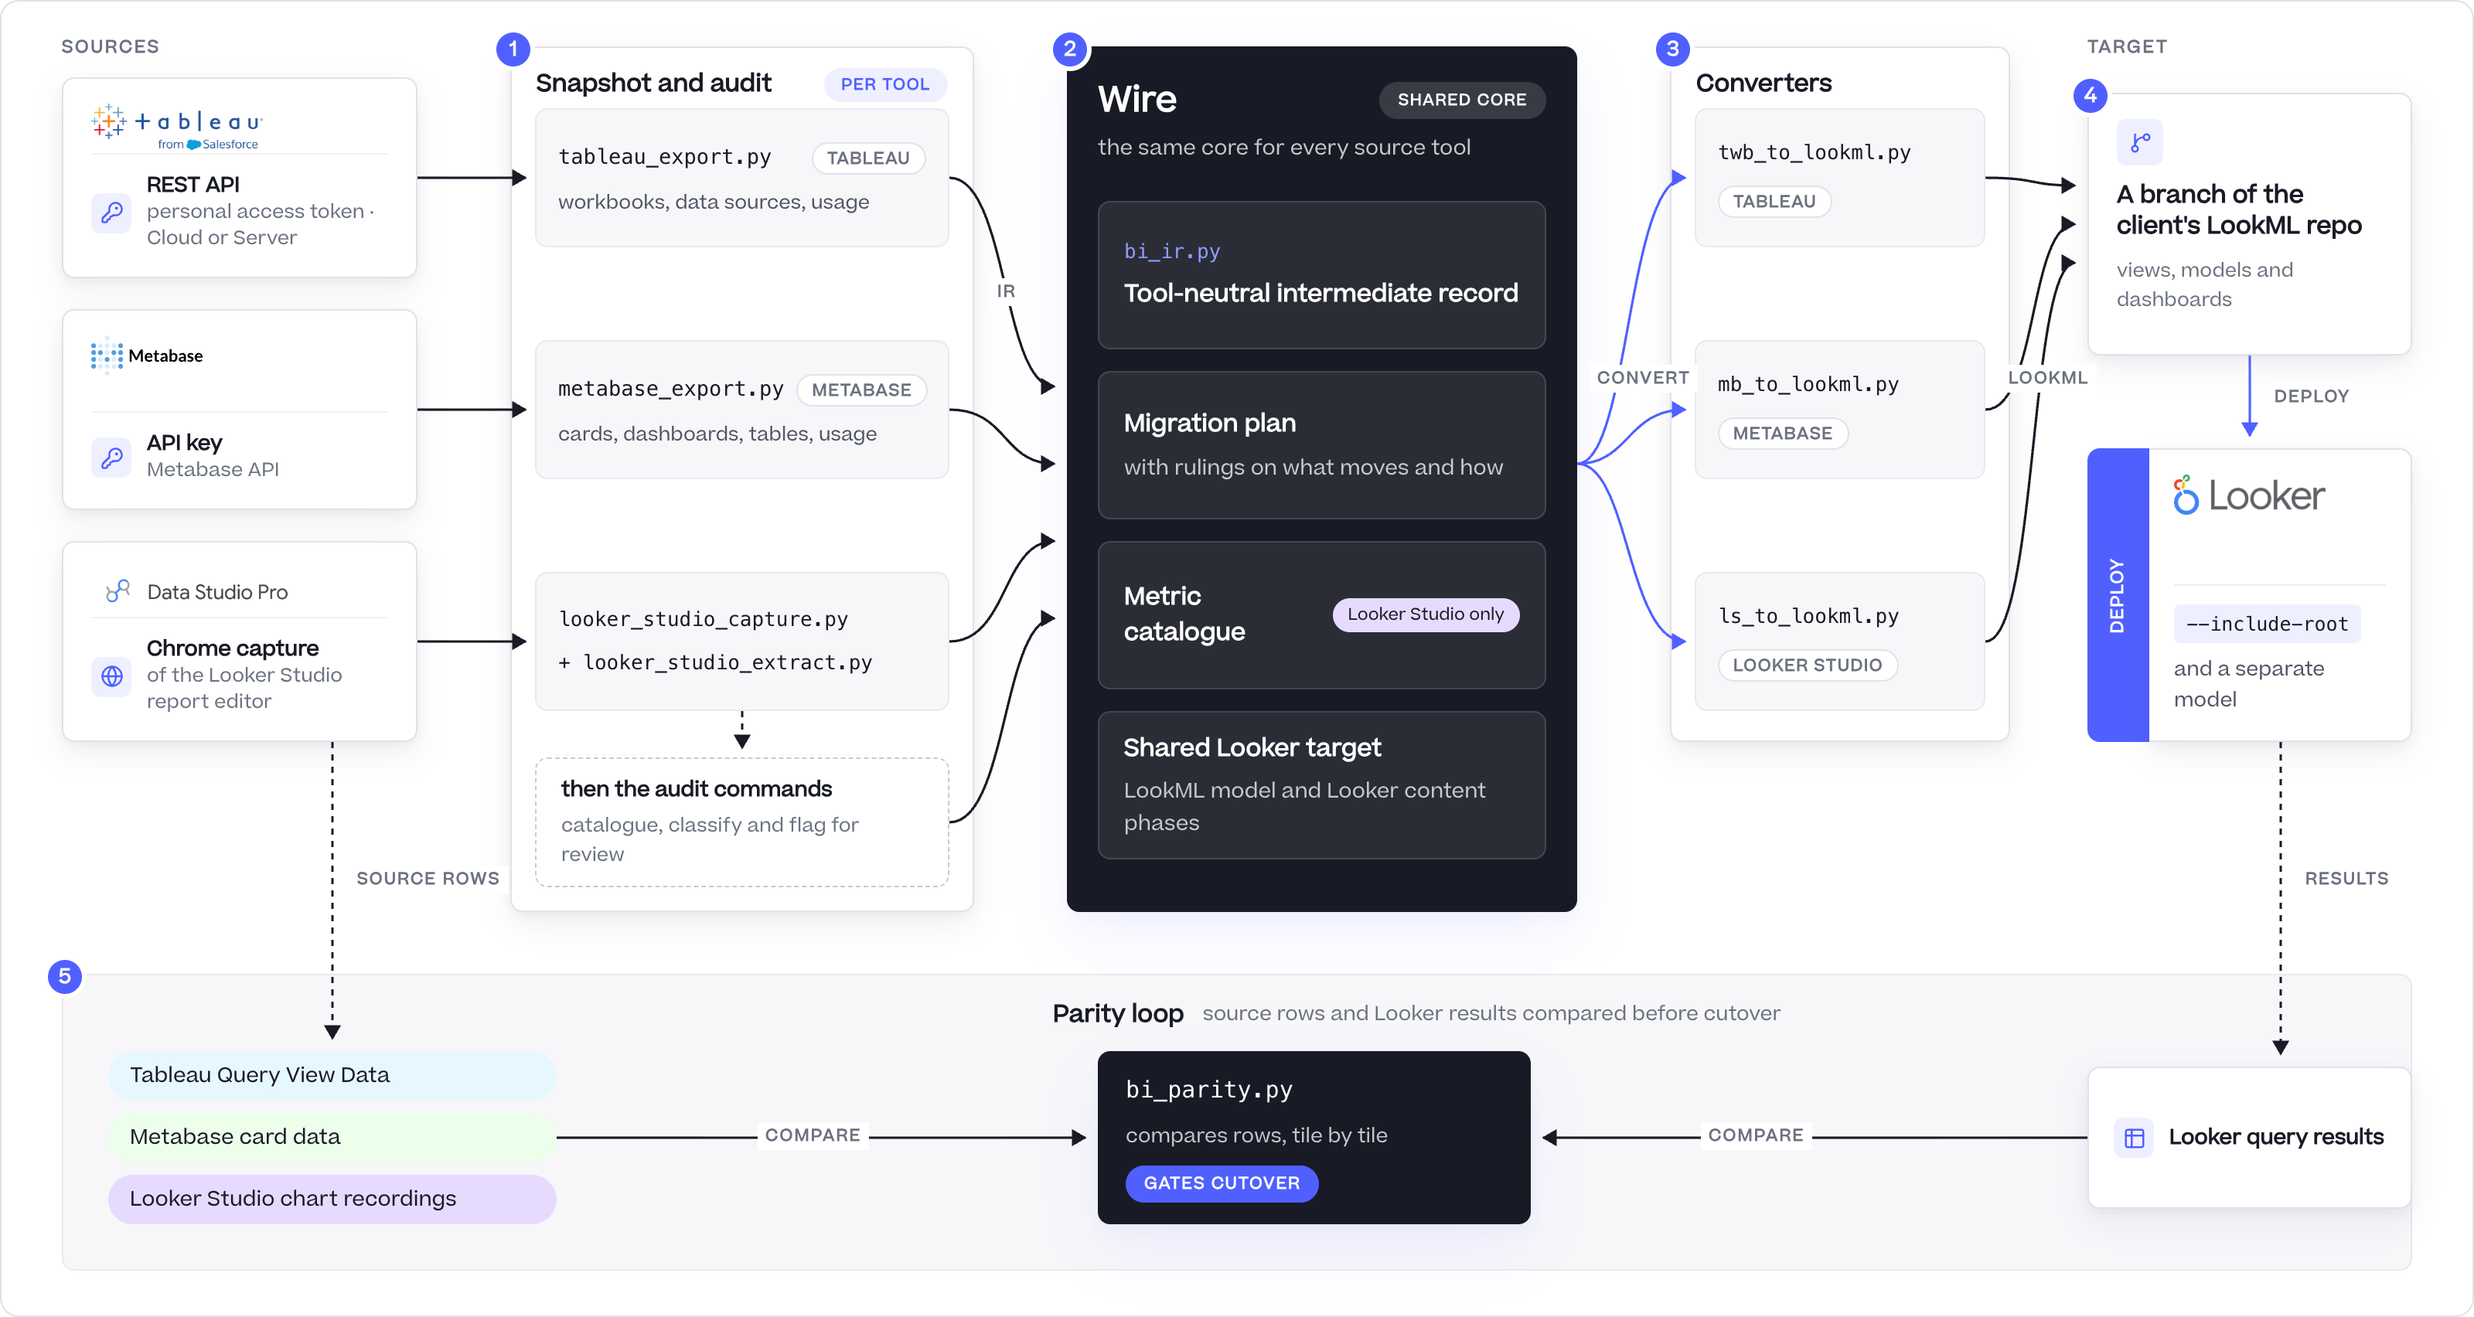
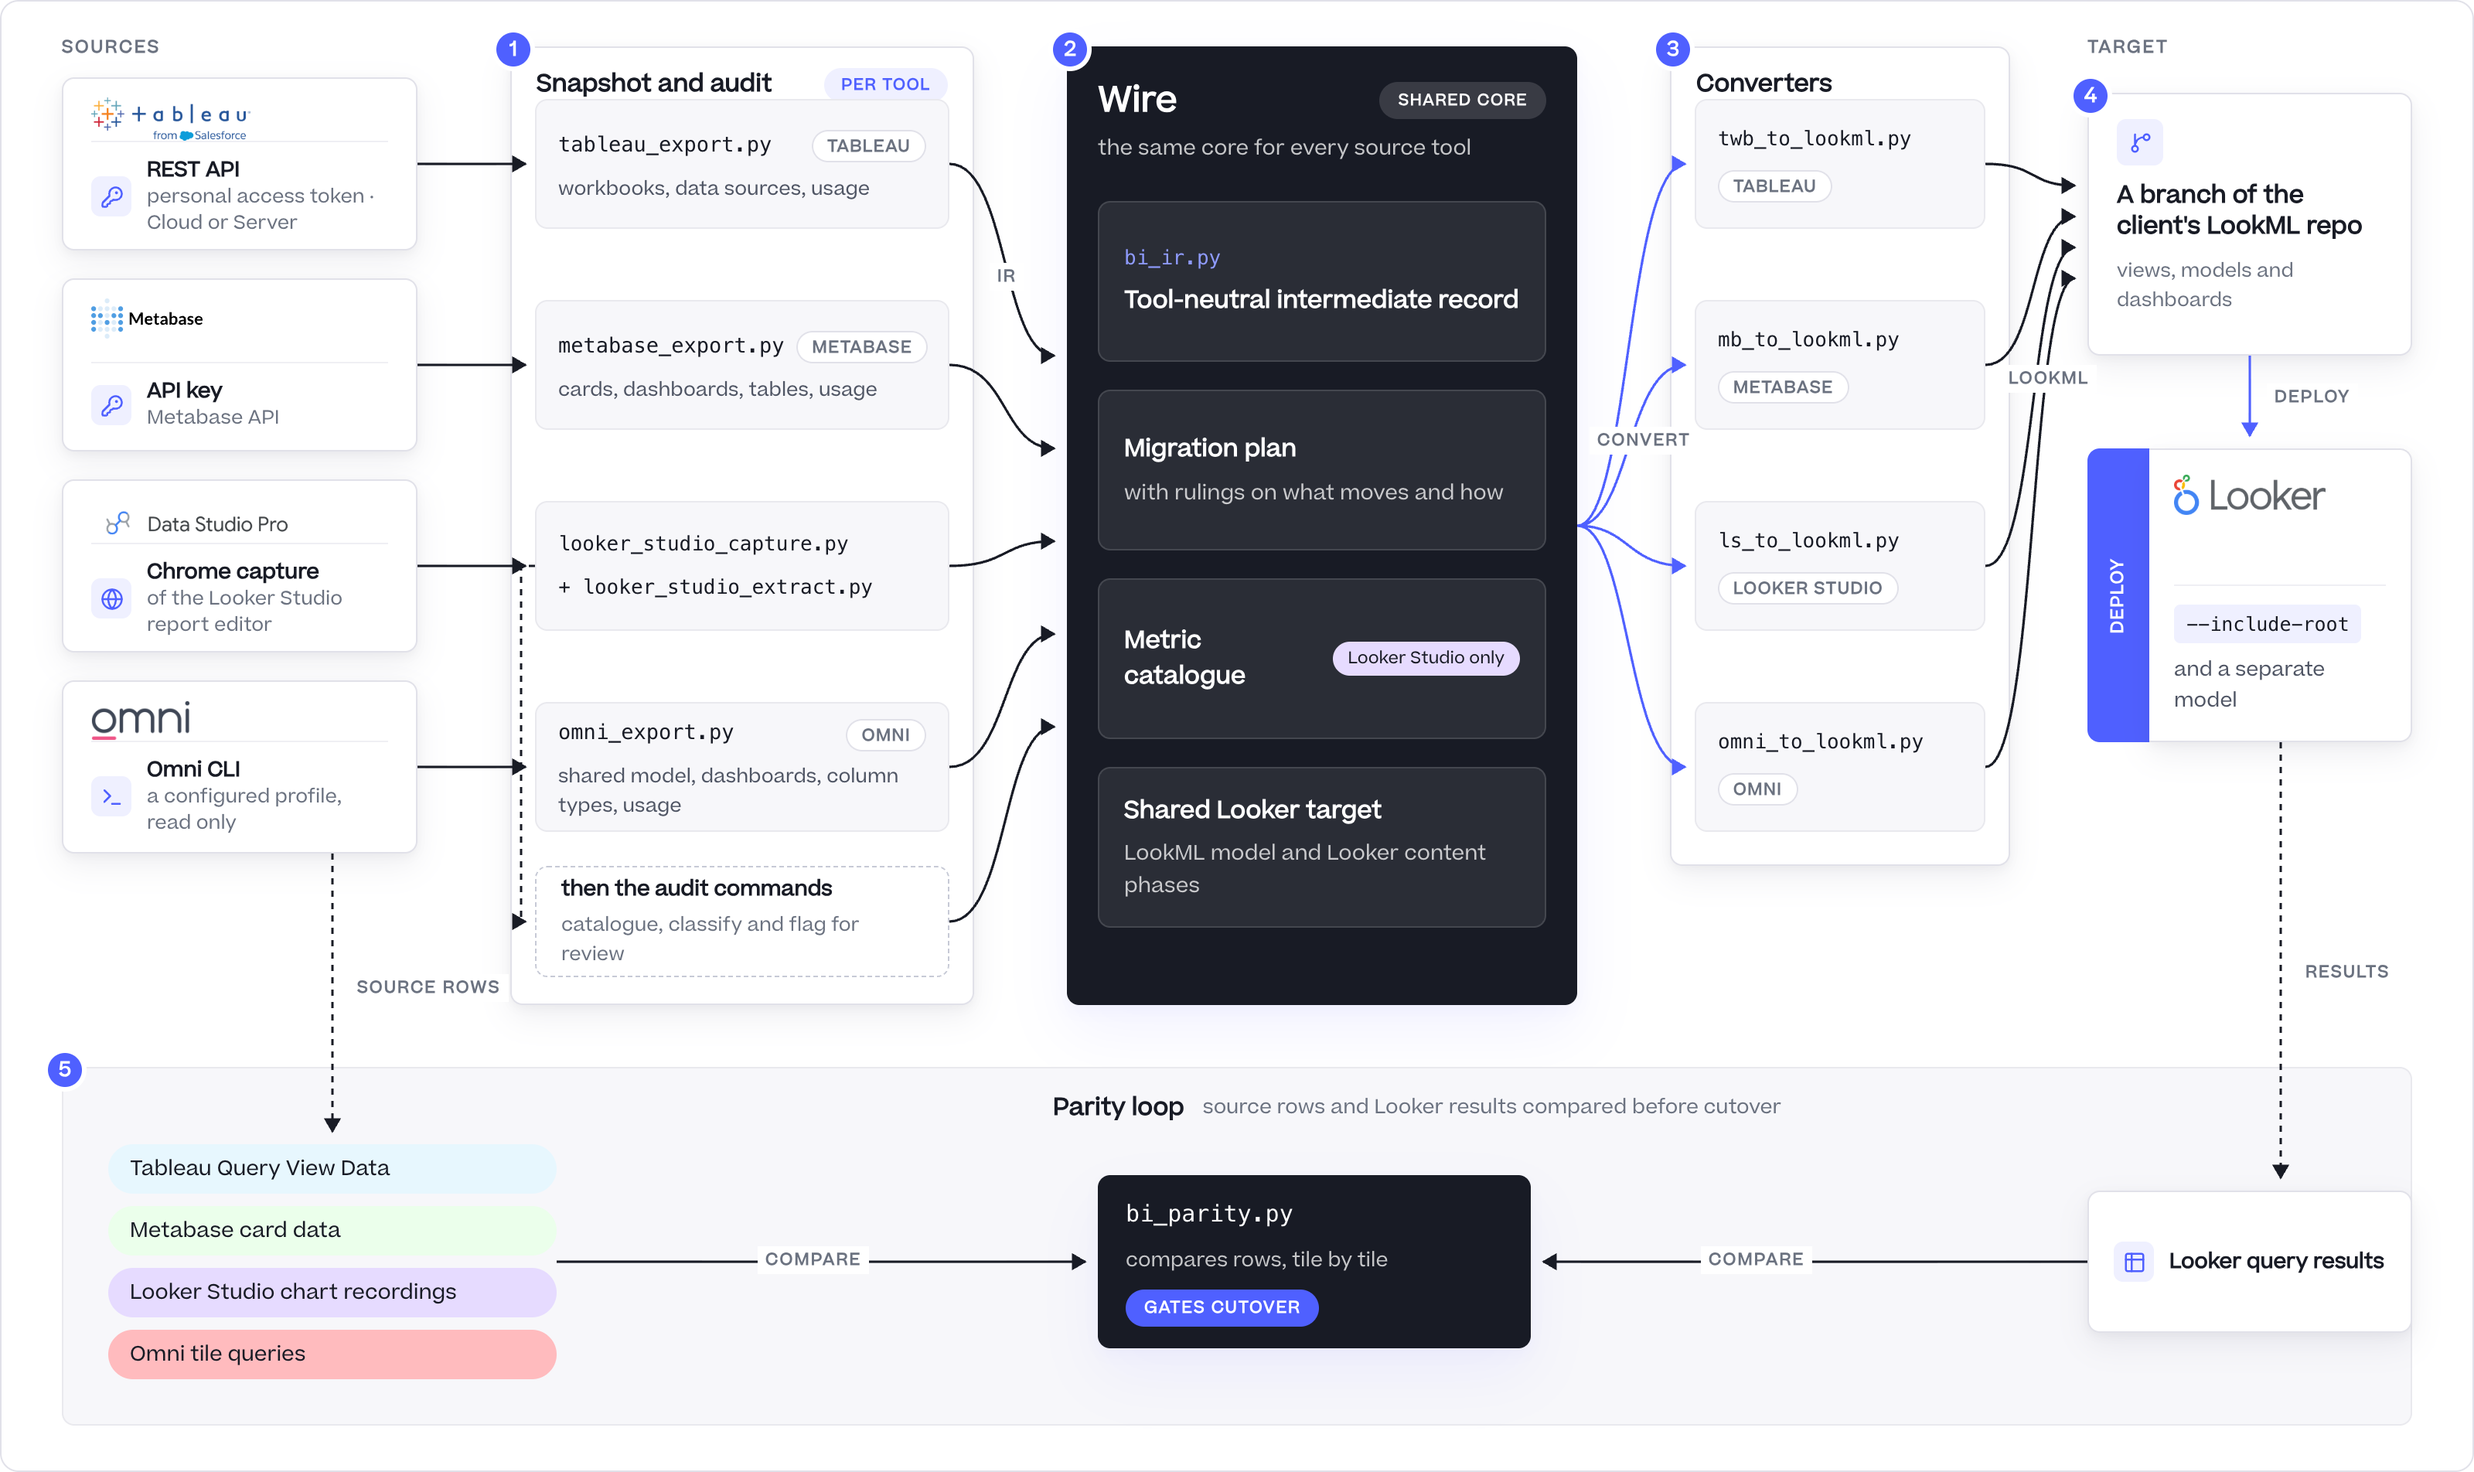
Wire Framework plugin v4.2.5 — re-push dist to plugin repos at v4.2.5

diff --git a/docs-site/docs/release-types/bi-migration.md b/docs-site/docs/release-types/bi-migration.md
@@ -60,7 +60,7 @@ The four pairs that end in Looker are experimental.
 
 Tableau, Metabase, Looker Studio and Omni each have their own way in and their own converter. They share everything else: the tool-neutral record (`wire/schemas/bi_ir-schema.md`), the plan, the Looker phases and the parity loop.
 
-![Tableau, Metabase and Looker Studio feed per-tool snapshot and audit scripts; Wire's shared core holds the tool-neutral record, the migration plan, the metric catalogue (Looker Studio only) and the shared Looker target; three converters write LookML to a branch of the client's repo, deployed to Looker under its own model; the parity loop compares each source's rows with Looker's results before cutover](/img/bi-migration/migration-to-looker-architecture.png)
+![Tableau, Metabase, Looker Studio and Omni feed per-tool snapshot and audit scripts; Wire's shared core holds the tool-neutral record, the migration plan, the metric catalogue (Looker Studio only) and the shared Looker target; four converters write LookML to a branch of the client's repo, deployed to Looker under its own model; the parity loop compares each source's rows (Tableau Query View Data, Metabase card data, Looker Studio chart recordings, Omni tile queries) with Looker's results before cutover](/img/bi-migration/migration-to-looker-architecture.png)
 
 | | Tableau | Metabase | Looker Studio | Omni |
 |---|---|---|---|---|

diff --git a/docs-site/docs/tutorials/bi-to-looker-session.md b/docs-site/docs/tutorials/bi-to-looker-session.md
@@ -15,7 +15,7 @@ This page follows one working session in Claude Code, as the release director se
 
 The director never types a command. They say what they want, rule on what Wire cannot decide, and approve at the gates. Wire runs the real commands, and each turn ends with the commands it ran.
 
-![Tableau, Metabase and Looker Studio feed per-tool snapshot and audit scripts; Wire's shared core holds the tool-neutral record, the migration plan, the metric catalogue and the shared Looker target; three converters write LookML to a branch of the client's repo, deployed to Looker under its own model; the parity loop compares each source's rows with Looker's results before cutover](/img/bi-migration/migration-to-looker-architecture.png)
+![Tableau, Metabase, Looker Studio and Omni feed per-tool snapshot and audit scripts; Wire's shared core holds the tool-neutral record, the migration plan, the metric catalogue and the shared Looker target; four converters write LookML to a branch of the client's repo, deployed to Looker under its own model; the parity loop compares each source's rows with Looker's results before cutover](/img/bi-migration/migration-to-looker-architecture.png)
 
 ## Before the session
 
